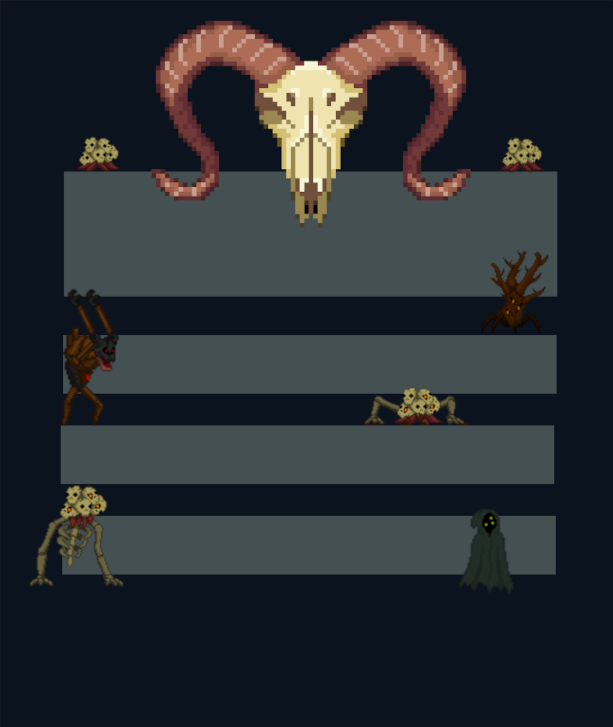
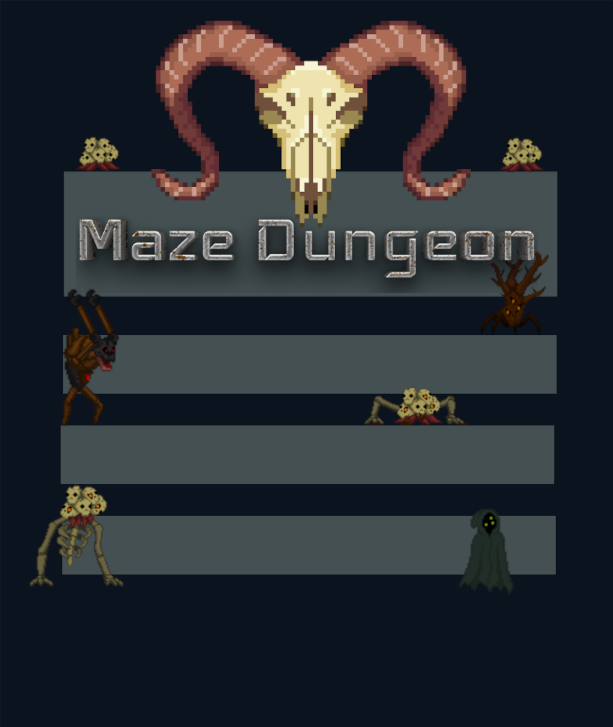
Add MainMenu Title

Changed region(s): [[0.124, 0.3026, 0.8679, 0.4237]]

diff --git a/src/gamestructure/mainmenu/MainMenuViewImpl.java b/src/gamestructure/mainmenu/MainMenuViewImpl.java
@@ -17,6 +17,8 @@ import model.common.ResizableRectangle;
 
 public class MainMenuViewImpl implements MainMenuView {
 
+    private static final int MENU_WIDTH = 613;
+    private static final int MENU_HEIGHT = 727;
     private final WindowUtilities windowUtilities = new WindowUtilities();
     private final PathGetter pathGetter = new PathGetter();
     private final JFrame frame = new JFrame();
@@ -38,8 +40,8 @@ public class MainMenuViewImpl implements MainMenuView {
      */
     public void show() {
         this.frame.setVisible(true);
-        this.frame.setSize(new Dimension((int) (613 * windowUtilities.getScreenRatio() + this.frame.getInsets().right + this.frame.getInsets().left), 
-                            (int) (727 * windowUtilities.getScreenRatio() + this.frame.getInsets().top + this.frame.getInsets().bottom)));
+        this.frame.setSize(new Dimension((int) (MENU_WIDTH * windowUtilities.getScreenRatio() + this.frame.getInsets().right + this.frame.getInsets().left), 
+                            (int) (MENU_HEIGHT * windowUtilities.getScreenRatio() + this.frame.getInsets().top + this.frame.getInsets().bottom)));
         this.frame.setLocation((int) (windowUtilities.getScreen().getWidth()) / 2 - this.frame.getSize().width / 2, 
                 (int) (windowUtilities.getScreen().getHeight()) / 2 - this.frame.getSize().height / 2);
     }
@@ -88,6 +90,7 @@ public class MainMenuViewImpl implements MainMenuView {
             lblCredits.setBounds(lblCreditsPosition);
 
             this.addAllButtonsEvents();
+
             this.lblCredits.setVisible(false);
 
             this.add(lblBackground, JLayeredPane.DEFAULT_LAYER);

diff --git a/src/gamestructure/mainmenu/MainMenuComponents.java b/src/gamestructure/mainmenu/MainMenuComponents.java
@@ -1,0 +1,9 @@
+package gamestructure.mainmenu;
+
+public enum MainMenuComponents {
+    BTN_NEW_GAME,
+    BTN_CREDITS,
+    BTN_EXIT,
+    LBL_BACKGROUND,
+    LBL_CREDITS;
+}

diff --git a/src/test/TestMainMenu.java b/src/test/TestMainMenu.java
@@ -9,5 +9,4 @@ public class TestMainMenu {
         final MainMenuController controller = new MainMenuControllerImpl();
         controller.setup();
     }
-
 }
